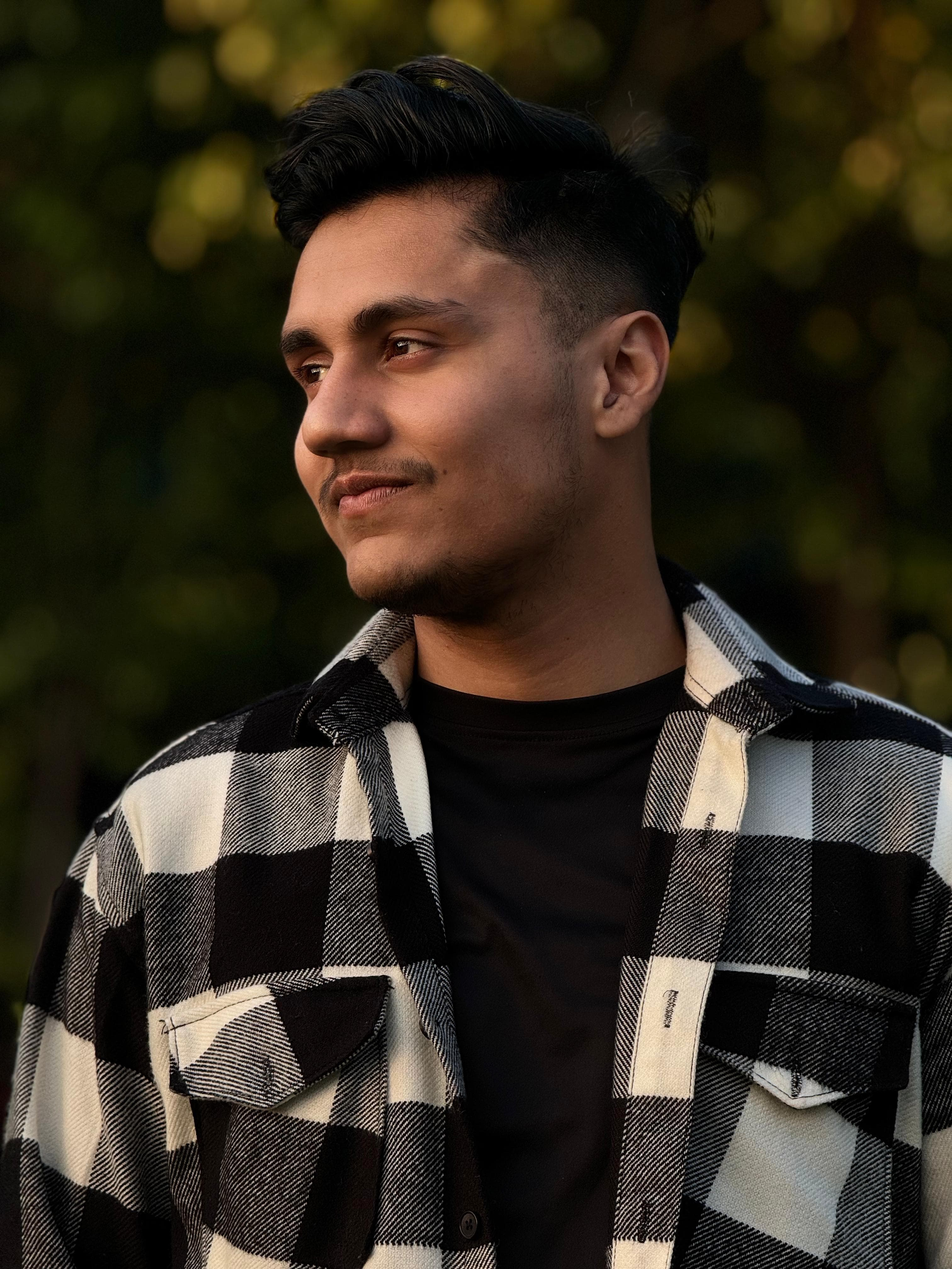
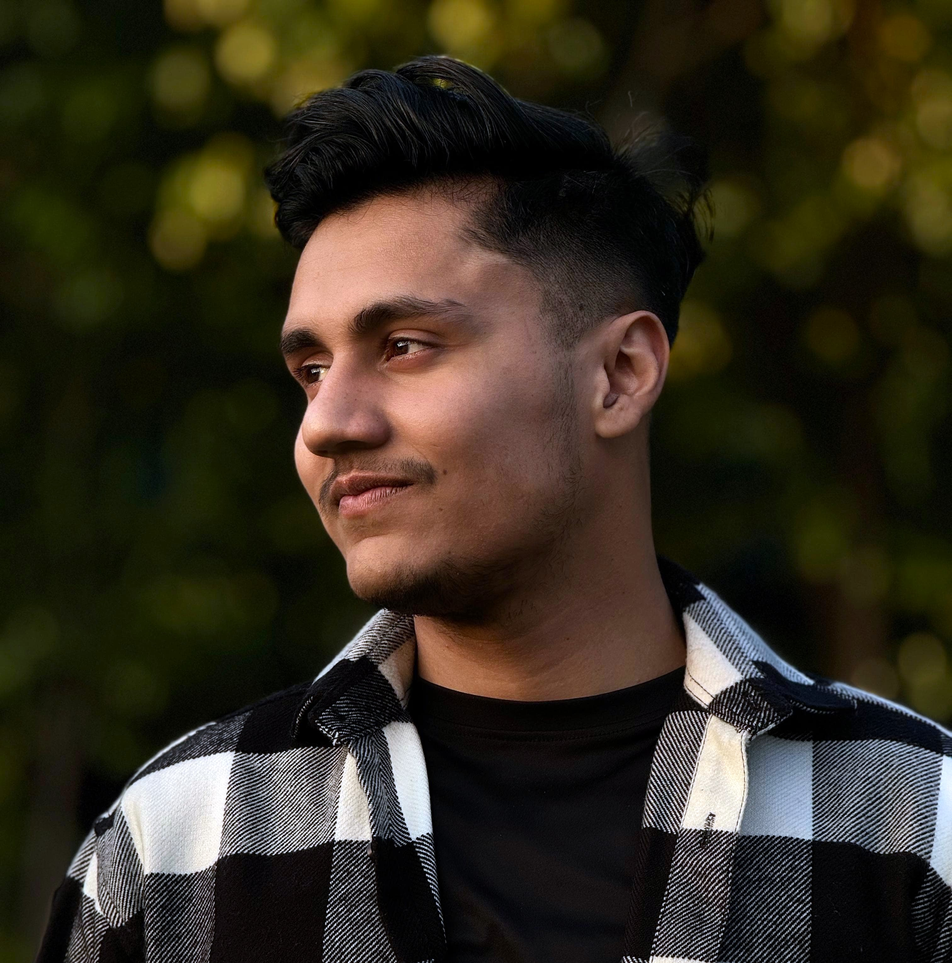
Added Projects

diff --git a/portfolio/src/components/About/About.jsx b/portfolio/src/components/About/About.jsx
@@ -1,36 +1,46 @@
 import React from "react";
-import LaveeshImg from "../../assets/lv01.jpg";
+import LaveeshImg from "../../assets/lv00.jpg";
+import "boxicons"
 
-const bio =
-  "Lorem ipsum dolor sit, amet consectetur adipisicing elit. At, vitae! Consectetur modi ipsa architecto. Est repudiandae nostrum perferendis eos voluptate, veniam necessitatibus iusto odit? Sequi voluptatem possimus nostrum repellat deserunt et distinctio, magni sapiente!";
-
+const bio = "I am Laveesh Tomar, a dedicated B.Tech CSE student with a passion for technology and innovation. As a budding full-stack web developer, I have honed my skills in both front-end and back-end development, enabling me to build robust, user-friendly web applications from the ground up. My journey in web development began with a curiosity about how websites work, which evolved into a passion for coding. I am proficient in HTML, CSS, and JavaScript, and skilled in React.js for front-end development. On the back-end, I work with Node.js, Express.js, and databases like MongoDB and MySQL."
 const details = [
   { label: "Name", value: "Laveesh Tomar" },
-  { label: "Name", value: "Laveesh Tomar" },
-  { label: "Name", value: "Laveesh Tomar" },
-  { label: "Name", value: "Laveesh Tomar" }
+  { label: "Qualification", value: "B.Tech - Computer Science Engineering" },
+  { label: "Specialization", value: "FullStack Web Development" },
+  { label: "Status", value: "Open To Work" }
 ];
 
+const techStack = [
+  { techIcon: 'html5', techName: "" },
+  { techIcon: 'css3', techName: "" },
+  { techIcon: 'javascript', techName: "" },
+  { techIcon: 'nodejs', techName: "" },
+  { techIcon: 'react', techName: "" },
+  { techIcon: 'postgresql', techName: "" },
+  { techIcon: 'mongodb', techName: "" },
+  { techIcon: 'c-plus-plus', techName: "" },
+  { techIcon: 'java', techName: "" },
+];
 function About() {
   return (
-    <>
-      <div className="text-center text-3xl font-bold mt-10 flex justify-center">
+    <div className="mt-10">
+      <div className="text-center text-3xl font-bold mb-10 flex justify-center items-center">
         <div className="mr-3 text-purple-700 lg:text-3xl text-2xl">◣</div>
         <p className="text-2xl lg:text-3xl">ABOUT</p>
         <div className="ml-3 text-purple-700 lg:text-3xl text-2xl">◢</div>
       </div>
 
-      <div className="flex flex-col md:flex-row mt-10 mx-5 md:mx-20 lg:mx-32">
-        <div className="flex justify-center md:w-1/3 w-full mb-5 md:mb-0">
-          <img src={LaveeshImg} className="rounded-xl w-72 md:w-auto max-w-xs" alt="Laveesh Tomar" />
+      <div className=" flex flex-col md:flex:col lg:flex-row justify-center items-center md:items-center md:start mx-5 md:mx-10 lg:mx-32">
+        <div className="flex justify-center items-center w-full md:w-1/3 mb-5 md:mb-0">
+          <img src={LaveeshImg} className="rounded-xl w-full max-w-xs sm:max-w-sm md:max-w-md lg:max-w-96" alt="Laveesh Tomar" />
         </div>
-        <div className="md:w-2/3 w-full">
-          <p className="border-2 p-4 text-sm md:text-base lg:text-lg">{bio}</p>
-          <div className="border-2 grid grid-cols-1 md:grid-cols-2 gap-4 mt-5 p-4">
+        <div className="w-full md:w-2/3 flex flex-col justify-center px-5 md:px-10">
+          <p className="bg-gray-100 p-3 text-sm md:text-sm lg:text-base xl:text-base">{bio}</p>
+          <div className="bg-gray-100 grid grid-cols-1 md:grid-cols-2 gap-4 mt-5 p-4">
             {details.map((detail, index) => (
               <div key={index}>
-                <h4 className="font-bold">{detail.label}:</h4>
-                <p>{detail.value}</p>
+                <h4 className="font-bold text-md md:text-md lg:text-md xl:text-lg ">{detail.label}:</h4>
+                <p className="text-sm md:text-sm lg:text-base xl:text-base">{detail.value}</p>
               </div>
             ))}
           </div>
@@ -38,11 +48,15 @@ function About() {
       </div>
       <div className="w-full h-32 bg-purple-700 my-10">
         <ul className="flex justify-center items-center h-full space-x-4">
-          <li className="text-white">Item 1</li>
-          <li className="text-white">Item 2</li>
+          {
+            techStack.map((tech,index)=>(
+              <li className="text-white flex flex-col justify-center "><box-icon name={tech.techIcon} type='logo' color='#ffffff' size='3rem' className="border-2 "></box-icon><h6 className="text-center ">{tech.techName}</h6></li>
+            ))
+          }
+         
         </ul>
       </div>
-    </>
+    </div>
   );
 }
 

diff --git a/portfolio/src/components/Portfolio/Portfolio.jsx b/portfolio/src/components/Portfolio/Portfolio.jsx
@@ -3,6 +3,11 @@ import ProjectCard from "./ProjectCard";
 import ProjectImg from "../../assets/luffy.jpg";
 import DesignImg from "../../assets/luffydes.png";
 import ApexImg from "../../assets/apexdev.png"  ;
+import ChatAppImg from "../../assets/chatapp.png"  ;
+import PortfolioImg from "../../assets/portfolio.png";
+
+
+
 
 const projects = [
   {
@@ -14,32 +19,24 @@ const projects = [
     img: ApexImg,
   },
   {
-    title: "Project",
-    desc: "This is sample Project",
+    title: "Chat Application",
+    desc: "This is a real-time chat application where users can chat with other users in real-time with the integration of LLM, which can chat when a user is not available.",
+    type: "website",
+    link: "No Link",
+    about: "https://github.com/laveesh21/Reat-Time-Chat-Application-",
+    img: ChatAppImg,
+  },
+  {
+    title: "My Portfolio",
+    desc: "This website, built using React, showcases my skills in both front-end and back-end development. Explore my projects, learn about my journey, and see how I turn ideas into robust, user-friendly web applications.",
     type: "website",
     link: "No Link",
     about: "",
-    img: ProjectImg,
+    img: PortfolioImg,
   },
   {
-    title: "Project",
-    desc: "This is sample Project",
-    type: "website",
-    link: "No Link",
-    about: "",
-    img: ProjectImg,
-  },
-  {
-    title: "Project2",
-    desc: "This is sample Project",
-    type: "design",
-    link: "No Link",
-    about: "",
-    img: DesignImg,
-  },
-  {
-    title: "Project2",
-    desc: "This is sample Project",
+    title: "Anime Webpage Design",
+    desc: "",
     type: "design",
     link: "No Link",
     about: "",

diff --git a/portfolio/src/components/Home/Home.jsx b/portfolio/src/components/Home/Home.jsx
@@ -13,7 +13,6 @@ function Home() {
                 <div className='mt-1  sm:mt-1 md:mt-6 text-right'>
                   <h1 className='font-semibold text-sm lg:text-lg'>Fullstack Web Developer</h1>
                 </div>
-                
             </div>
             <div className='flex-1 flex justify-center md:justify-start'><img className='rounded-xl w-2/3 h-auto sm:w-18 md:w-7/12' src={LaveeshImg} alt="Not Avilable"/></div>
         </div>
